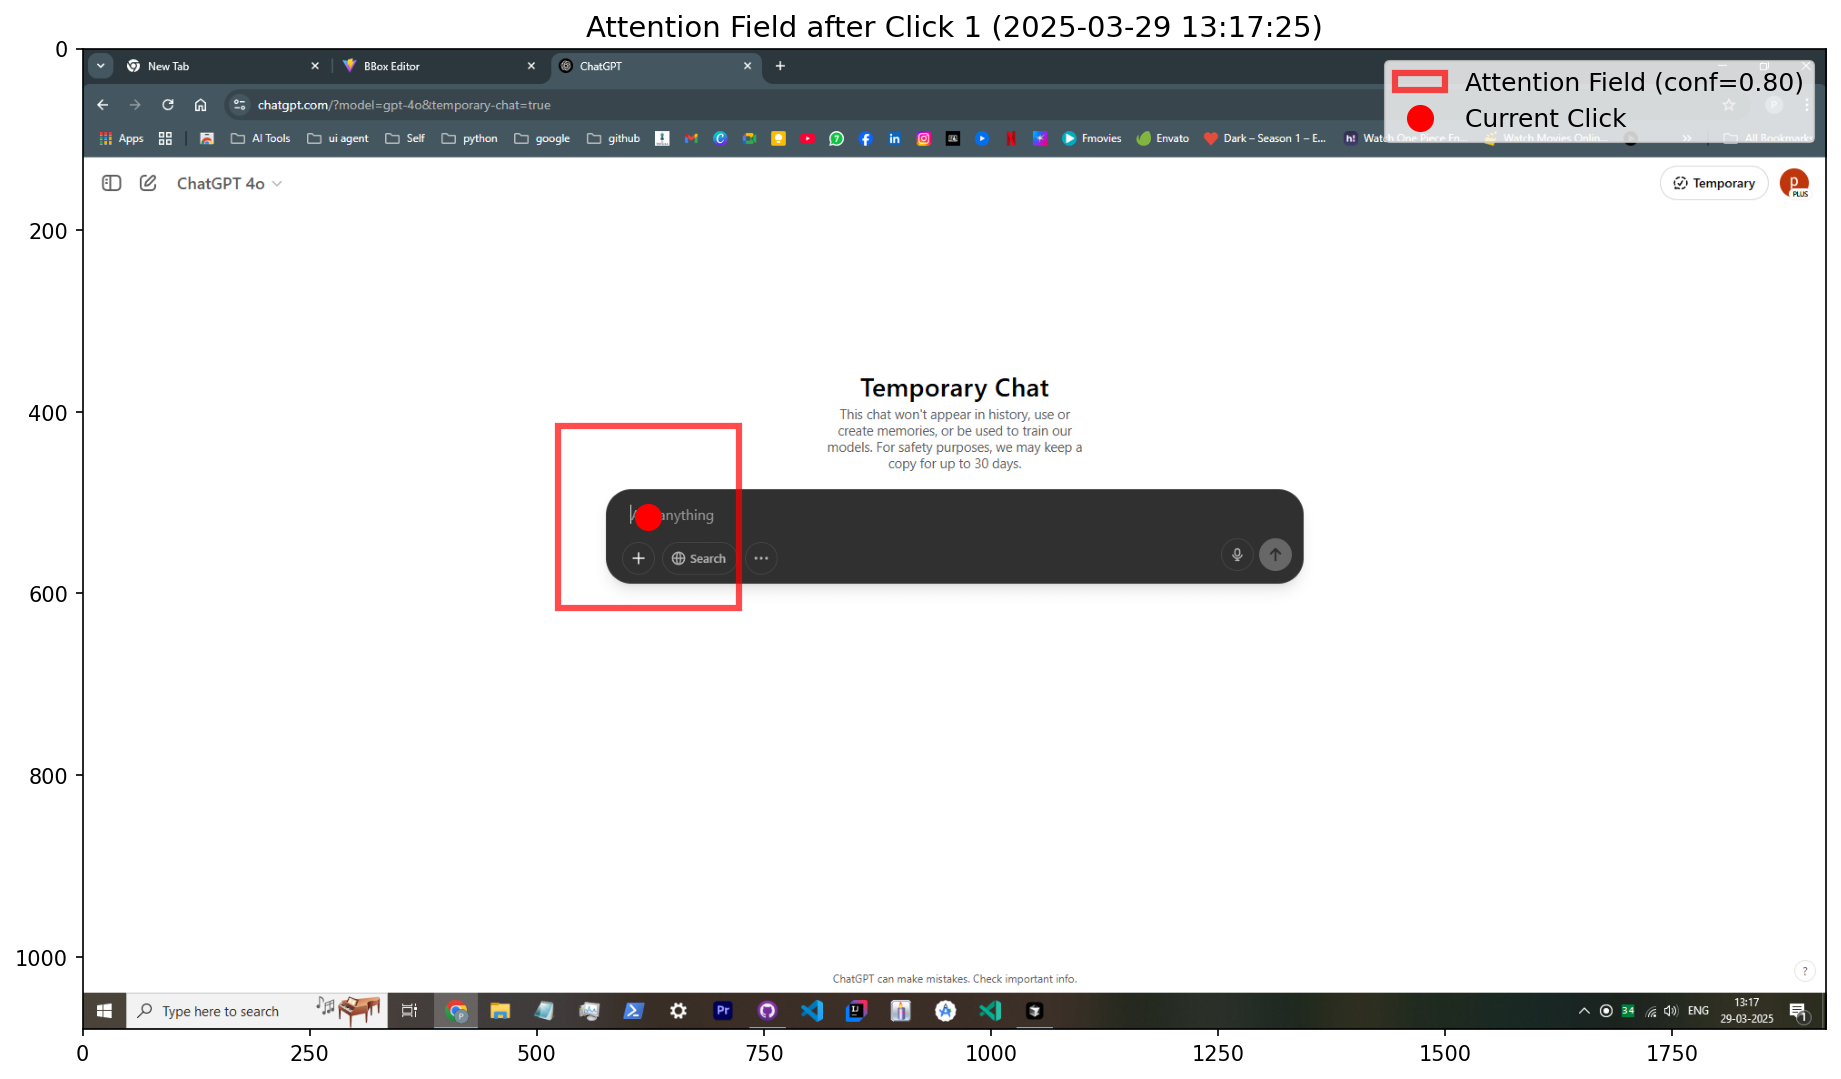
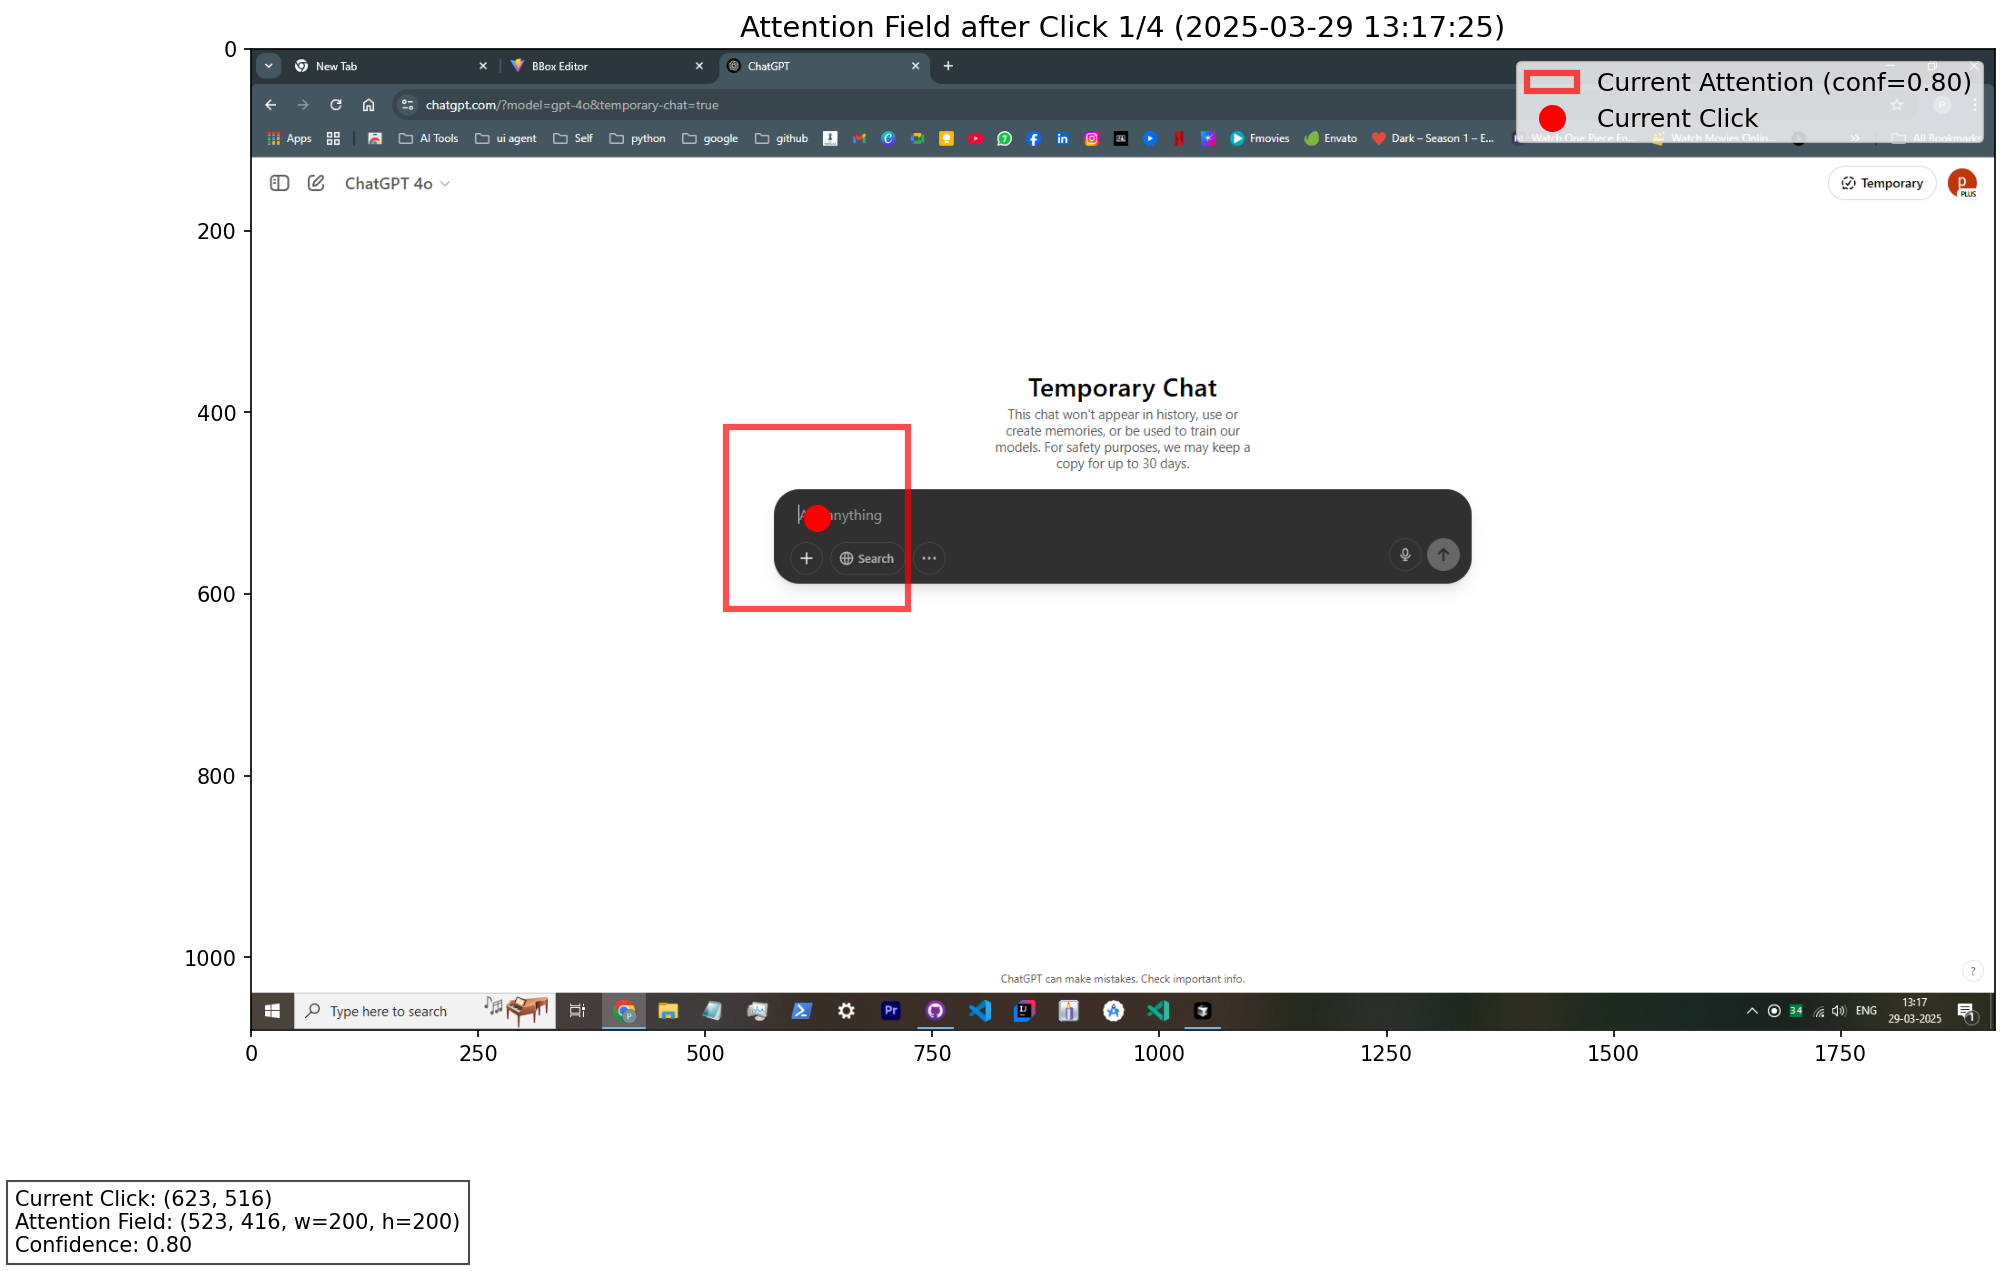
update

diff --git a/karna-python-backend/inference/omniparser/test_attention_controller.py b/karna-python-backend/inference/omniparser/test_attention_controller.py
@@ -79,6 +79,7 @@ def load_screenshot_events() -> List[ScreenshotEvent]:
 def visualize_attention_fields(events: List[ScreenshotEvent]) -> None:
     """
     Visualize attention fields for each mouse event by drawing directly on the screenshots.
+    Also shows predicted next attention area based on movement direction.
     
     Args:
         events: List of ScreenshotEvent objects with mouse coordinates and valid screenshot paths
@@ -104,7 +105,10 @@ def visualize_attention_fields(events: List[ScreenshotEvent]) -> None:
         controller.add_click_from_event(event)
         
         # Get current attention field
-        attention_field = controller.get_current_attention_field()
+        current_field = controller.get_current_attention_field()
+        
+        # Get predicted next attention field based on movement direction
+        next_field = controller.predict_next_attention_field()
         
         # Create a figure with the screenshot as background
         plt.figure(figsize=(15, 10))
@@ -119,14 +123,46 @@ def visualize_attention_fields(events: List[ScreenshotEvent]) -> None:
             plt.xlim(0, img_width)
             plt.ylim(img_height, 0)  # Invert y-axis to match image coordinates
             
-            # Draw attention field as a rectangle
-            rect = patches.Rectangle(
-                (attention_field.x, attention_field.y),
-                attention_field.width, attention_field.height,
+            # Draw current attention field as a solid red rectangle
+            current_rect = patches.Rectangle(
+                (current_field.x, current_field.y),
+                current_field.width, current_field.height,
                 linewidth=3, edgecolor='r', facecolor='none', alpha=0.7,
-                label=f"Attention Field (conf={attention_field.confidence:.2f})"
+                label=f"Current Attention (conf={current_field.confidence:.2f})"
             )
-            plt.gca().add_patch(rect)
+            plt.gca().add_patch(current_rect)
+            
+            # Draw predicted next attention field as a dashed blue rectangle if available
+            if next_field:
+                next_rect = patches.Rectangle(
+                    (next_field.x, next_field.y),
+                    next_field.width, next_field.height,
+                    linewidth=2, edgecolor='b', facecolor='none', alpha=0.5,
+                    linestyle='--',
+                    label=f"Predicted Next (dir={next_field.direction}, conf={next_field.confidence:.2f})"
+                )
+                plt.gca().add_patch(next_rect)
+                
+                # Draw an arrow indicating movement direction if available
+                if next_field.direction and i > 0:
+                    center_x, center_y = current_field.center
+                    arrow_length = min(current_field.width, current_field.height) * 0.3
+                    
+                    dx, dy = 0, 0
+                    if next_field.direction == 'right':
+                        dx = arrow_length
+                    elif next_field.direction == 'left':
+                        dx = -arrow_length
+                    elif next_field.direction == 'down':
+                        dy = arrow_length
+                    elif next_field.direction == 'up':
+                        dy = -arrow_length
+                    
+                    if dx != 0 or dy != 0:
+                        plt.arrow(center_x, center_y, dx, dy, 
+                                 head_width=15, head_length=15, 
+                                 fc='g', ec='g', alpha=0.7,
+                                 label="Movement Direction")
             
             # Plot all clicks so far
             for j, prev_event in enumerate(events[:i+1]):
@@ -138,10 +174,29 @@ def visualize_attention_fields(events: List[ScreenshotEvent]) -> None:
             
             # Add informative title
             event_time = event.timestamp.strftime('%Y-%m-%d %H:%M:%S')
-            plt.title(f"Attention Field after Click {i+1} ({event_time})", fontsize=14)
+            click_count = i + 1
+            direction_info = f", Predicted Direction: {next_field.direction}" if next_field and next_field.direction else ""
+            plt.title(f"Attention Field after Click {click_count}/{len(events)} ({event_time}){direction_info}", fontsize=14)
             
             # Add legend
             plt.legend(loc='upper right', fontsize=12)
+            
+            # Add information about attention context in text box
+            attention_info = [
+                f"Current Click: ({event.mouse_x}, {event.mouse_y})",
+                f"Attention Field: ({current_field.x}, {current_field.y}, w={current_field.width}, h={current_field.height})",
+                f"Confidence: {current_field.confidence:.2f}"
+            ]
+            
+            if next_field:
+                attention_info.extend([
+                    f"Direction: {next_field.direction}",
+                    f"Next Field: ({next_field.x}, {next_field.y}, w={next_field.width}, h={next_field.height})",
+                    f"Next Confidence: {next_field.confidence:.2f}"
+                ])
+            
+            plt.gcf().text(0.02, 0.02, '\n'.join(attention_info), fontsize=10, 
+                        bbox=dict(facecolor='white', alpha=0.7))
             
             # Save the figure
             output_path = os.path.join(OUTPUT_DIR, f"attention_field_{i+1:03d}.png")
